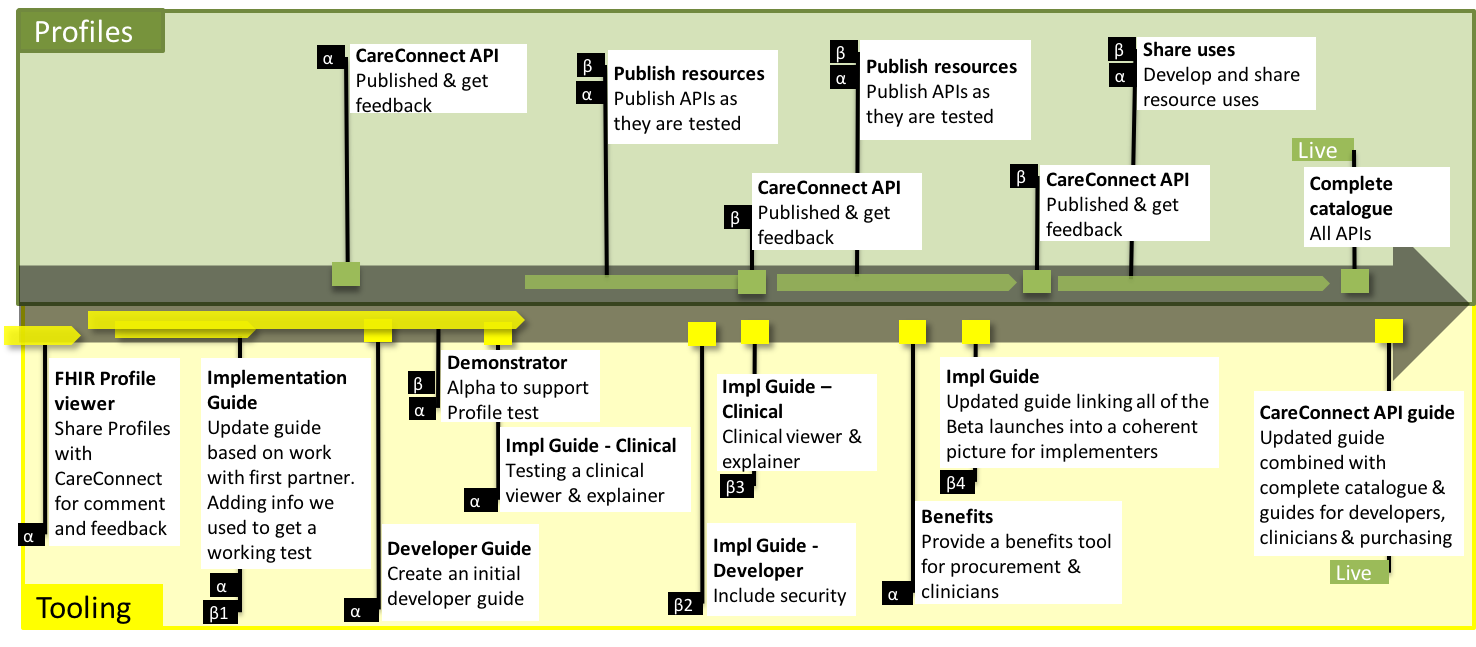
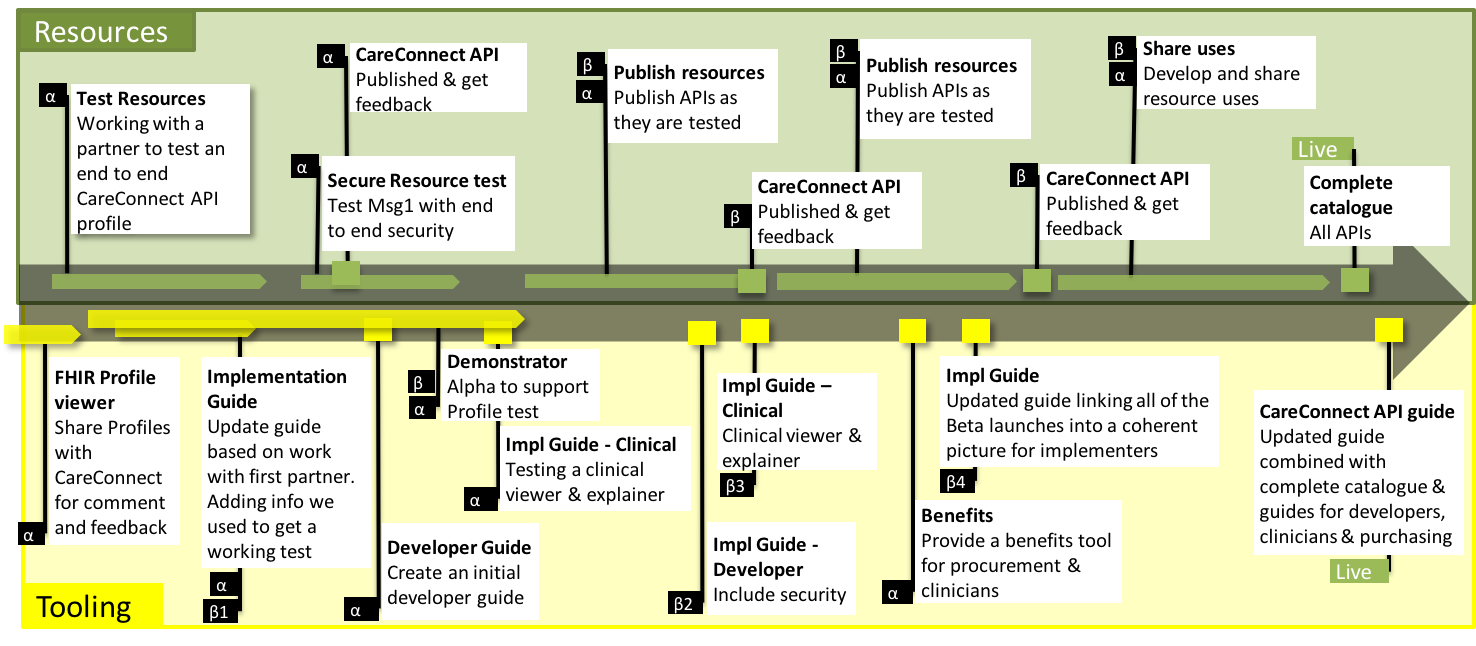
Make small changes to the first page naming

diff --git a/index.md b/index.md
@@ -44,7 +44,7 @@ Please see the explanation of the complete development roadmap.
 
 
 
-# Profile Roadmap #
+# Resource Roadmap #
 
 The [API journey](overview_api_journey.html) outlines the development roadmap for the RESTful APIs outlined within this site.
 
